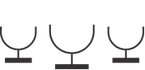
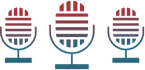
wip: ajustes de estilos colocacion de tabs de contenido

diff --git a/css/styles.css b/css/styles.css
@@ -22,18 +22,33 @@
 
 .sec {
 	background: #202020;
-	/* border-radius: 150px; */
-	border: 5px solid transparent;
-	border-image: linear-gradient(90deg, rgba(171,48,56,1) 0%, rgba(40,102,123,1) 100%) 1;
+	border-radius: 150px;
 }
 
 .img-studio {
-	/*border-radius: 135px;*/
+	border-radius: 135px;
 	max-height: 300px;
-	/*padding: 5px 5px 5px 10px;*/
+	padding: 5px 5px 5px 10px;
 }
 
 .text {
 	margin-right: 5vw;
 	margin-left: 5vw;
+}
+
+.border-d {
+	background: linear-gradient(90deg, rgba(171,48,56,1) 0%, rgba(40,102,123,1) 100%);
+	padding: 5px 20px 5px 20px;
+	border-radius: 150px; 
+}
+
+.nav-link {
+	color: white !important;
+	font-size: 22px;
+}
+
+.nav-sep {
+	border-left-color: white;
+	border-left-style: solid;
+	border-width: 1px;
 }

diff --git a/studio.php b/studio.php
@@ -11,15 +11,13 @@
 		<script src="./js/jquery-3.4.1.js"></script>
 		<script src="./js/bootstrap-4.0.js"></script>
 	</head>
-	<body class="audiophone-page-dark-theme fondo05">
+	<body class="audiophone-page-dark-theme">
 		<?php require_once './components/navbar/navbar.php'; ?>
-		<!--<header>
-			<div class="cons"></div>
-		</header> -->
 		<section>
 			<div class="container mb-5 mt-5">
-				<div class="w-100 text-center mb-5 mt-5">
-					<h3 class="font-italic">Estudio de Grabación</h3>
+				<div class="w-100 d-flex justify-content-around flex-row mb-5 mt-5">
+					<h3 class="font-italic">Estudio de Grabación:</h3>
+					<img src="./img/microfonos.png" alt="microfonos" class="mr-5" style="max-height: 50px;">
 				</div>
 				<p class="text-justify">
 					Lorem ipsum dolor sit amet, consectetur adipisicing elit. Qui eum et veritatis suscipit eaque. Necessitatibus labore laboriosam delectus at! Tempore dolores distinctio temporibus odio tenetur nihil culpa sit, itaque harum voluptatum assumenda quam aspernatur beatae laboriosam pariatur quos, deserunt, ex fugiat quo corrupti consequatur excepturi necessitatibus. Deleniti repellat, eos necessitatibus provident architecto voluptatem minus explicabo sed eligendi adipisci rem accusamus. Ab dolorem suscipit eum in! Eveniet excepturi ut ratione debitis est ex aliquam minima hic, maiores ea. Aliquam atque, sint perspiciatis quae adipisci cum minus fugiat aspernatur et dicta non accusamus delectus, veritatis unde ipsa quia illum recusandae ipsam, suscipit provident, ut iure tempora maiores. Nemo nobis quas minus neque ullam ipsa impedit non soluta temporibus, reprehenderit! Saepe, placeat, explicabo. Aut eveniet debitis mollitia amet molestias praesentium beatae illum ex temporibus eos dolorum accusamus ipsum laboriosam alias, veritatis expedita cum deserunt earum, eius minima. Ea maiores quaerat atque saepe quis!
@@ -27,29 +25,53 @@
 			</div>
 		</section>
 		<section>
-			<div class="container">
-				<div class="row mb-5 sec">
-					<div class="col-4 p-0">
-						<img src="./img/estudio6.jpg" alt="" class="img-studio w-100">
-					</div>
-					<div class="col-8 p-3 align-self-center">
-						<p class="text-justify text">
-							Lorem ipsum dolor sit amet, consectetur adipisicing elit. Atque eligendi soluta id eveniet corrupti nostrum repellendus quis, earum animi inventore itaque voluptatibus temporibus fugiat quasi asperiores rerum! A, voluptatum magni illo harum animi? Quas, nemo, ipsam ea similique molestiae, nostrum nulla enim vel quod officia expedita dolor eum fugit fugiat.
-						</p>
+			<div class="tab-content">
+				<div class="tab-pane fade show active" id="description" role="tabpanel" aria-labelledby="description-tab">
+					<div class="d-none d-xl-block">
+						<?php require_once './components/sections/description/description_xl.php'; ?>
 					</div>
 				</div>
-				<div class="row sec">
-					<div class="col-8 p-3 align-self-center">
-						<p class="text-justify text">
-							Lorem ipsum dolor sit amet, consectetur adipisicing elit. Perferendis nulla minima doloribus fugiat, at quae accusamus voluptas fugit, debitis sed consequatur atque eligendi tempore dignissimos! Porro, fugit voluptate veritatis autem eum debitis. Earum laudantium libero illo perferendis. Voluptas pariatur qui libero odio a aspernatur esse reiciendis nisi natus minima. Numquam!
+				<div class="tab-pane fade" id="galery" role="tabpanel" aria-labelledby="galery-tab">
+					<div class="row">
+						<p class="w-100 text-center">
+							Gallery
 						</p>
-					</div>
-					<div class="col-4 p-0">
-						<img src="./img/estudio6.jpg" alt="" class="img-studio w-100">
 					</div>
 				</div>
 			</div>
 		</section>
+
+		<!-- control content tabs -->
+		<ul class="nav justify-content-center mt-5 mb-5" role="tablist">
+			<li class="nav-item active" style="margin: 0 !important">
+				<a 
+					class="nav-link" 
+					href="#description" 
+					role="tab" 
+					aria-controls="profile" 
+					aria-selected="true"
+					data-toggle="tab"
+					id="description-tab"
+				>
+					Descripción
+				</a>
+			</li>
+			<li class="nav-sep"></li>
+			<li class="nav-item">
+				<a 
+					class="nav-link" 
+					id="galery-tab" 
+					data-toggle="tab" 
+					href="#galery" 
+					role="tab" 
+					aria-controls="galery" 
+					aria-selected="false"
+				>
+					Galería
+				</a>
+			</li>
+		</ul>
+
 		<section>
 			<?php require_once './components/modal/contact.php'; ?>
 			<?php require_once './components/modal/terms.php'; ?>

diff --git a/components/sections/description/description_xl.php b/components/sections/description/description_xl.php
@@ -1,0 +1,24 @@
+<div class="container border-d mb-5">
+	<div class="row sec">
+		<div class="col-4 p-0">
+			<img src="./img/estudio6.jpg" alt="" class="img-studio w-100">
+		</div>
+		<div class="col-8 p-3 align-self-center">
+			<p class="text-justify text">
+				Lorem ipsum dolor sit amet, consectetur adipisicing elit. Atque eligendi soluta id eveniet corrupti nostrum repellendus quis, earum animi inventore itaque voluptatibus temporibus fugiat quasi asperiores rerum! A, voluptatum magni illo harum animi? Quas, nemo, ipsam ea similique molestiae, nostrum nulla enim vel quod officia expedita dolor eum fugit fugiat.
+			</p>
+		</div>
+	</div>
+</div>
+<div class="container border-d">
+	<div class="row sec">
+		<div class="col-8 p-3 align-self-center">
+			<p class="text-justify text">
+				Lorem ipsum dolor sit amet, consectetur adipisicing elit. Perferendis nulla minima doloribus fugiat, at quae accusamus voluptas fugit, debitis sed consequatur atque eligendi tempore dignissimos! Porro, fugit voluptate veritatis autem eum debitis. Earum laudantium libero illo perferendis. Voluptas pariatur qui libero odio a aspernatur esse reiciendis nisi natus minima. Numquam!
+			</p>
+		</div>
+		<div class="col-4 p-0">
+			<img src="./img/estudio5.jpg" alt="" class="img-studio w-100">
+		</div>
+	</div>
+</div>

diff --git a/components/navbar/navbar.php b/components/navbar/navbar.php
@@ -15,7 +15,7 @@ $navbar = <<<NAVBAR
 	<div class="p-0 m-0 d-xs w-100"> 
 		<div class="p-0 m-0 d-flex fle-row justify-content-between align-items-center">
 			<img src="./img/logoEstudioAudiophoneTranspBlanco.png" class="logo-brand">
-			<span class="font-italic font-weight-bold" style="font-size: 14px;">Estudios Audiophone</span>
+			<span class="font-italic font-weight-bold" style="font-size: 14px;">Audiophone</span>
 			<button class="navbar-toggler" style="border: none;" type="button" data-toggle="collapse" 
 				data-target="#menu-responsive" aria-controls="menu-responsive" 
 				aria-expanded="false" aria-label="Toggle navigation">
@@ -69,7 +69,7 @@ $navbar = <<<NAVBAR
 	<div class="p-0 m-0 d-sm d-flex flex-row justify-content-between w-100">  
 		<div class="p-0 m-0" style="width: 50vw;">
 			<img src="./img/logoEstudioAudiophoneTranspBlanco.png" class="logo-brand">
-			<span class="font-italic font-weight-bold font-20 ml-3">Estudios Audiophone</span>
+			<span class="font-italic font-weight-bold font-20 ml-3">Audiophone</span>
 		</div>
 		
 		<div class="d-sm w-100 d-flex flex-row justify-content-end align-items-center links">
